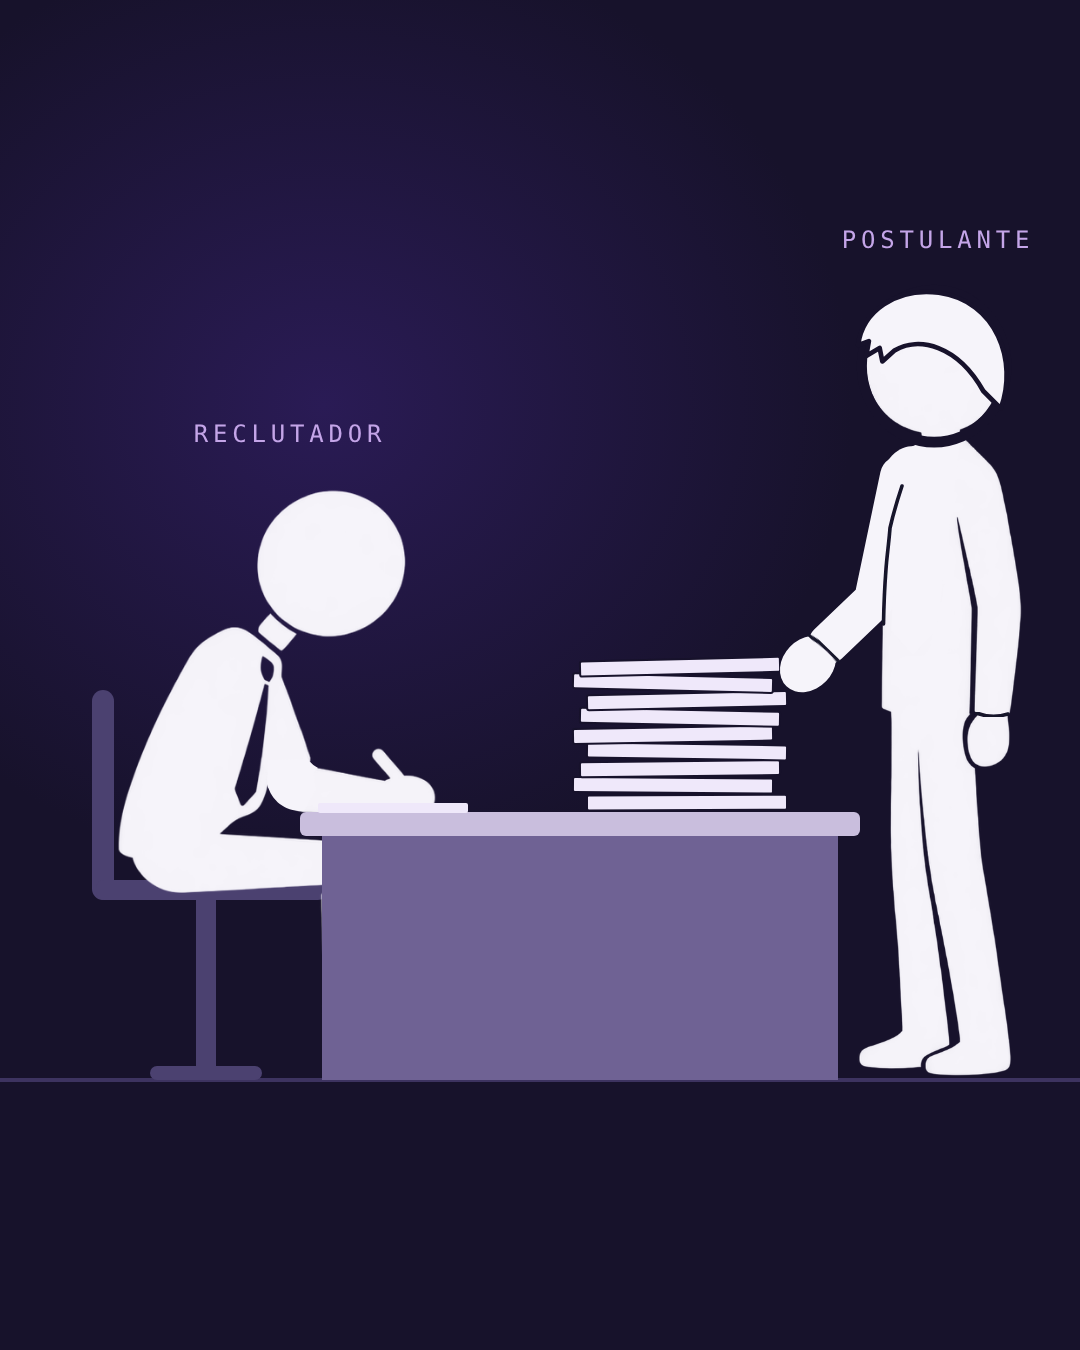
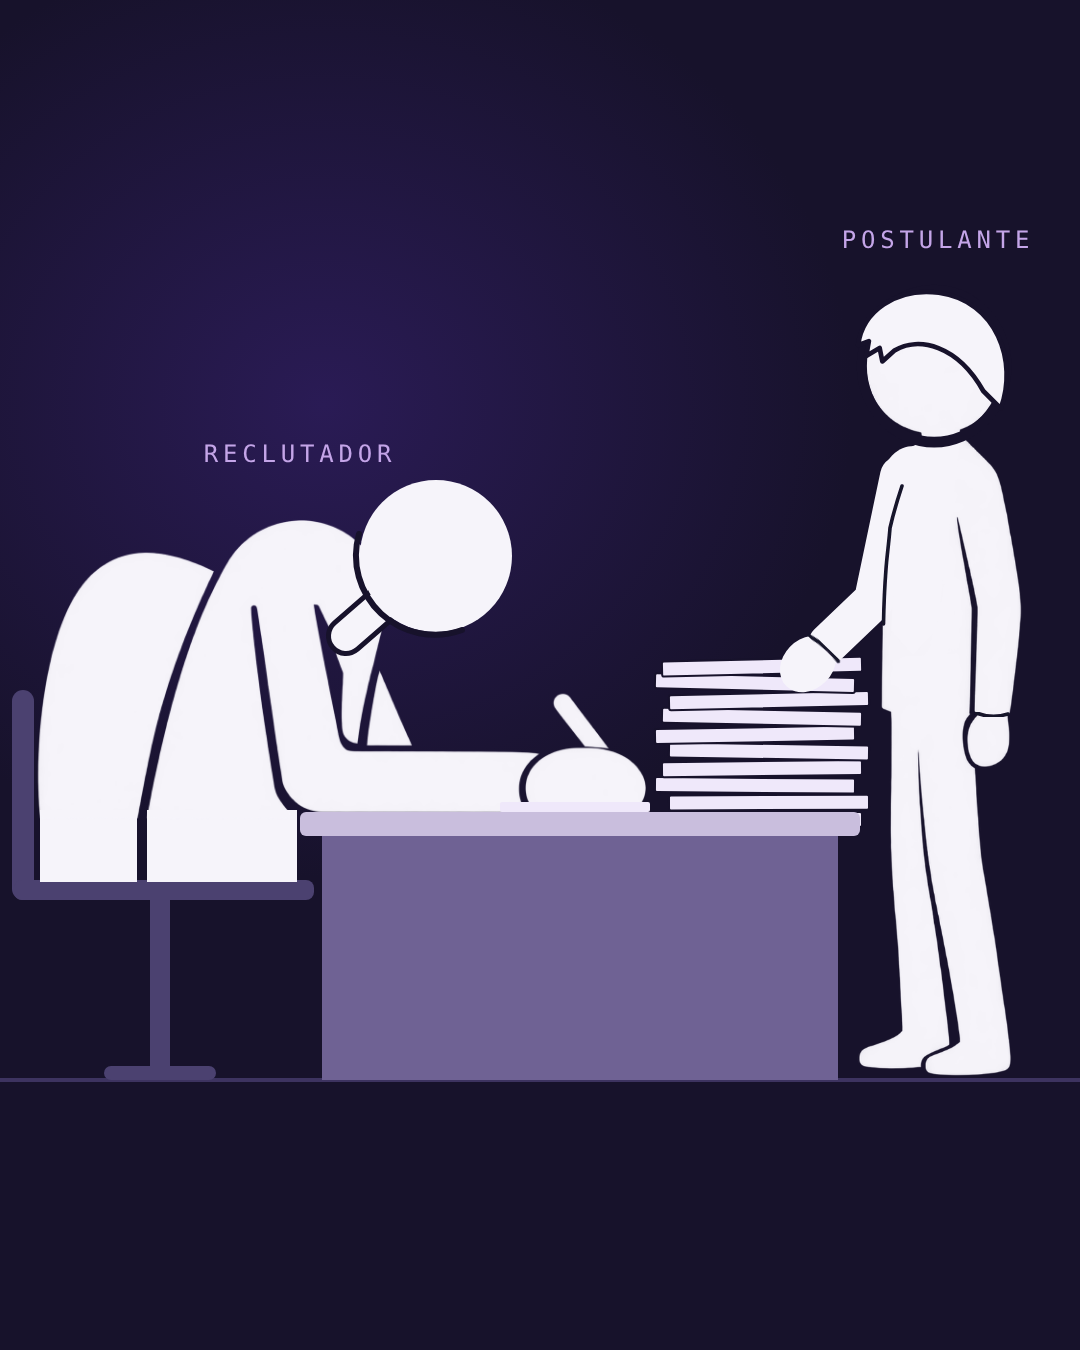
feat(video): rebuild the recruiter from the supplied torso/arms pose
Use the user's new hunched torso-and-arms pose for the recruiter instead
of the earlier assembled seated figure, recoloured to white:

- Head and neck taken from the parts sheet, separated from the torso by a
  thin gap only where they touch (no ring against the background).
- The pose is cut flat at the bottom, so the torso is extended down to
  the chair seat; the chair moves behind the back.
- The forearm rests on the desk with the writing sheet under the hand;
  the paper stack moves right to make room for the longer reach.

Claude-Session: https://claude.ai/code/session_01TNESLuQNUwZZ73yDMFRmWn

Changed region(s): [[0.0, 0.3111, 0.825, 0.8089]]

diff --git a/videos/cv-ya-no-basta/elementos/escena1-still.html b/videos/cv-ya-no-basta/elementos/escena1-still.html
@@ -10,25 +10,27 @@
   <!-- piso -->
   <div class="abs" style="left:0;right:0;top:1078px;height:4px;background:#3d3360"></div>
 
-  <!-- silla -->
-  <div class="abs" style="left:92px;top:690px;width:22px;height:210px;border-radius:11px;background:#4b4170"></div>
-  <div class="abs" style="left:96px;top:880px;width:230px;height:20px;border-radius:8px;background:#4b4170"></div>
-  <div class="abs" style="left:196px;top:900px;width:20px;height:178px;background:#4b4170"></div>
-  <div class="abs" style="left:150px;top:1066px;width:112px;height:14px;border-radius:7px;background:#4b4170"></div>
-  <!-- reclutador: queda DETRÁS del escritorio -->
-  <img class="abs" src="personaje/reclutador-sentado-blanco.png" style="left:110px;top:480px;height:600px">
-
-  <!-- codo del reclutador: rellena la media luna oscura entre brazo y antebrazo -->
+  <!-- silla: detrás de la espalda -->
+  <div class="abs" style="left:12px;top:690px;width:22px;height:210px;border-radius:11px;background:#4b4170"></div>
+  <div class="abs" style="left:14px;top:880px;width:300px;height:20px;border-radius:8px;background:#4b4170"></div>
+  <div class="abs" style="left:150px;top:900px;width:20px;height:178px;background:#4b4170"></div>
+  <div class="abs" style="left:104px;top:1066px;width:112px;height:14px;border-radius:7px;background:#4b4170"></div>
+  <!-- RECLUTADOR = pose de torso y brazos del usuario (escala 0.48) + cabeza y cuello de la hoja de piezas.
+       La pose viene cortada en recto: el torso se prolonga hasta el asiento. -->
+  <div class="abs" style="left:40px;top:810px;width:97px;height:72px;background:#f6f4fa"></div>
+  <div class="abs" style="left:147px;top:810px;width:150px;height:72px;background:#f6f4fa"></div>
+  <img class="abs" src="personaje/reclutador-torso-brazos-blanco.png" style="left:-3px;top:402px;width:695px">
+  <!-- cuello y cabeza: separados del torso por un hueco fino, como el resto de las piezas -->
   <svg class="abs" style="left:0;top:0" width="1080" height="1350">
-    <!-- un solo codo: el brazo baja y dobla hacia la mesa en una curva continua,
-         tapando la costura y el bulto redondo de la punta del antebrazo -->
-    <path d="M268 760 L305 759 Q310 764 313 768 L316 790 L304 811 C286 812 272 802 267 784 Z"
-      fill="#f6f4fa"/>
-    <!-- pliegue interior del codo: sin escalón entre brazo y antebrazo -->
-    <path d="M305 752 Q308 763 318 768 L314 772 L302 762 Z" fill="#f6f4fa"/>
+    <path d="M346 636 L392 596" stroke="#17122b" stroke-width="40" stroke-linecap="round"/>
+    <path d="M346 636 L392 596" stroke="#f6f4fa" stroke-width="30" stroke-linecap="round"/>
+    <circle cx="436" cy="556" r="76" fill="#f6f4fa"/>
+    <!-- hueco solo donde la cabeza toca cuello y hombro -->
+    <path d="M462 630 A79 79 0 0 1 359 534" stroke="#17122b" stroke-width="6" fill="none" stroke-linecap="round"/>
   </svg>
+
   <!-- pila de CVs sobre el escritorio -->
-  <svg class="abs" style="left:560px;top:640px" width="260" height="190" viewBox="0 0 260 190">
+  <svg class="abs" style="left:642px;top:640px" width="260" height="190" viewBox="0 0 260 190">
     <g id="pila"></g>
   </svg>
 
@@ -36,8 +38,6 @@
   <div class="abs" style="left:300px;top:812px;width:560px;height:24px;border-radius:6px;background:#c9bedd"></div>
   <div class="abs" style="left:322px;top:836px;width:516px;height:244px;background:#6f6294"></div>
 
-  <!-- la hoja en la que escribe -->
-  <div class="abs" style="left:318px;top:803px;width:150px;height:10px;border-radius:2px;background:#efe8fa"></div>
   <!-- postulante: de pie, mirando hacia el escritorio -->
   <!-- brazo LEJANO del postulante: va DETRÁS del cuerpo (se pinta antes).
        El torso tapa hombro y brazo superior; solo asoman antebrazo y mano.
@@ -52,6 +52,8 @@
     <!-- une hombro y brazo en una sola curva (sin muesca entre las dos jorobas) -->
     <path d="M914 446 C898 446 884 458 879 484 L904 506 L920 470 Z" fill="#f6f4fa"/>
   </svg>
+  <!-- hoja en la que escribe, bajo la mano -->
+  <div class="abs" style="left:500px;top:802px;width:150px;height:10px;border-radius:2px;background:#efe8fa"></div>
   <!-- coordenadas del recorte original (270x1180), mirando a la derecha; el flip lo da vuelta -->
   <svg class="abs" viewBox="0 0 270 1180" style="left:846px;top:286px;height:794px;transform:scaleX(-1);overflow:visible">
     <image href="personaje/postulante-de-pie-blanco.png" width="270" height="1180"/>
@@ -85,7 +87,7 @@
     <path d="M976 713 Q992 719 1008 714" stroke="#17122b" stroke-width="3.6" fill="none"
       stroke-linecap="round" filter="url(#suave)"/>
   </svg>
-  <div class="tag" style="left:290px;top:420px">RECLUTADOR</div>
+  <div class="tag" style="left:300px;top:440px">RECLUTADOR</div>
   <div class="tag" style="left:938px;top:226px">POSTULANTE</div>
 </div>
 <script>
